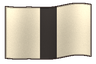
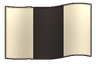
Add priority country flags and clarify two starting flags
Include the 21 high-priority and 17 medium-priority countries. Make the Japanese stripe wider and replace the Nguyen crescent with a dragon.

Changed region(s): [[0.5625, 0.0625, 0.6875, 0.9062], [0.3438, 0.0938, 0.4375, 0.9375]]

diff --git a/docs/flag-artwork.md b/docs/flag-artwork.md
@@ -1,13 +1,13 @@
 # 国旗アイコン
 
-開始国61件。PNGのファイル名は `world.json` の国名です。ゲーム中に追加される国など、同名の画像がない場合には `_unknown.png` が利用できます。
+開始国61件と、ゲーム中に現れる固定名の国を収録しています。PNGのファイル名にはゲーム内で使われる国名を用います。同名の画像がない場合に利用できる `_unknown.png` も収録しています。
 
-1783年の開始データ向けの固定素材です。史料ベースの旗も、紋章や配色を小さな表示向けに簡略化しています。「代用デザイン」には、王家の紋章から再構成したもの、後代の旗を用いたもの、ゲーム用の創作旗が含まれます。図形を描き起こして、共通の生地の陰影を適用しています。
+以下は1783年の開始データ向けの旗です。史料ベースの旗も、紋章や配色を小さな表示向けに簡略化しています。「代用デザイン」には、王家の紋章から再構成したもの、後代の旗を用いたもの、ゲーム用の創作旗が含まれます。図形を描き起こして、共通の生地の陰影を適用しています。
 
 | 国 | 根拠 | デザイン |
 | --- | --- | --- |
 | フランス | [史料ベース](https://commons.wikimedia.org/wiki/Historical_flags) | ブルボン朝の白地王旗と三つの百合紋を簡略化。 |
-| 日本 | [史料ベース](https://en.wikipedia.org/wiki/List_of_Japanese_flags) | 徳川幕府の白・黒・白の船旗。 |
+| 日本 | [史料ベース](https://en.wikipedia.org/wiki/List_of_Japanese_flags) | 徳川幕府の白・黒・白の船旗を基に、縮小表示で判別できるよう中央の黒帯を太く調整。 |
 | イギリス | [史料ベース](https://commons.wikimedia.org/wiki/Timeline_of_national_flags) | 1801年以前のユニオン旗。 |
 | アメリカ | [史料ベース](https://www.si.edu/spotlight/flag-day/flag-facts) | 13本の縞と13星。星の並びは当時の複数の型から円形を採用。 |
 | ロシア | [史料ベース](https://commons.wikimedia.org/wiki/Timeline_of_national_flags) | 白・青・赤の商船旗。 |
@@ -55,7 +55,7 @@
 | ザクセン | [代用デザイン](https://commons.wikimedia.org/wiki/Flags_of_territories_of_the_Holy_Roman_Empire) | 黒金の横縞と緑の冠状斜帯を用いた選帝侯家の紋章旗。 |
 | ハノーファー | [代用デザイン](https://www.crwflags.com/fotw/flags/de-ha_kd.html) | 白馬の紋章を赤地に配置した識別旗。 |
 | ヴュルテンベルク | [代用デザイン](https://commons.wikimedia.org/wiki/Flags_of_territories_of_the_Holy_Roman_Empire) | 三本の鹿角を用いたヴュルテンベルク家の紋章旗。 |
-| 阮氏 | [代用デザイン](https://commons.wikimedia.org/wiki/Category:Fictional_flags_of_Vietnam) | 黄金の地に月と赤い円を置いたゲーム用デザイン。 |
+| 阮氏 | [代用デザイン](https://commons.wikimedia.org/wiki/Category:Fictional_flags_of_Vietnam) | 赤地に金の龍と宝珠を配したゲーム用デザイン。 |
 | ラヘジ | [代用デザイン](https://www.crwflags.com/fotw/Flags/ye_lahej.html) | 赤白と交差する短剣・槍の旗を参考。採用年は未確認。 |
 | デリー | [代用デザイン](https://en.wikipedia.org/wiki/List_of_office-holders_in_India) | ムガル朝の緑地の軍旗と獅子・太陽を用いた識別旗。 |
 | アワド | 代用デザイン | 王侯家の双魚の紋章を旗にした代用。 |
@@ -67,3 +67,57 @@
 | オヨ帝国 | 代用デザイン | オヨの騎兵を参考にした、馬のシルエットを持つゲーム用デザイン。 |
 | ボルヌ帝国 | 代用デザイン | 群青地と金の幾何学文様を組み合わせたゲーム用デザイン。 |
 | ハワイ王国 | [代用デザイン](https://digitalarchives-documents.hawaii.gov/documents/1640/32.pdf) | カメハメハ1世期に成立した旗を代用。王国の成立・旗の採用とも開始年より後。 |
+
+## ゲーム中に現れる国
+
+専用の旗を用意する対象は、優先度「高」の21件と「中」の17件です。旗は `PriceOfBread.App/Assets/Flags` に国名と同じファイル名で収録しています。
+
+旗を表示するUIでは、`Power.Name` と同名の素材を参照し、一致しない場合は `_unknown.png` を使用します。低優先の固定名、内戦の反乱勢力、都市名に由来する自動命名の国にも、共通の `_unknown.png` を使用する想定です。政体に応じて変わる画面表示名は、ファイル名の検索に用いません。
+
+### 優先度 高（21件）
+
+| 国 | 出現経路 | 基準 | デザイン |
+| --- | --- | --- | --- |
+| ドイツ | 統一 | [史料を基に簡略化](https://commons.wikimedia.org/wiki/Timeline_of_national_flags) | 黒・白・赤の帝国旗。 |
+| 北ドイツ連邦 | 統一 | [史料を基に簡略化](https://commons.wikimedia.org/wiki/Timeline_of_national_flags) | 連邦の黒・白・赤。ドイツとは意匠を共用。 |
+| イタリア | 統一 | [史料を基に簡略化](https://commons.wikimedia.org/wiki/Timeline_of_national_flags) | 緑白赤にサヴォイアの盾。 |
+| ローマ | 統一 | ゲーム用図案 | 金鷲を中央に置いた復興ローマの旗。 |
+| 神聖ローマ | 統一 | [代用デザイン](https://commons.wikimedia.org/wiki/Flags_of_territories_of_the_Holy_Roman_Empire) | 帝国の双頭の黒鷲。ゲーム内の再統一を表す。 |
+| フランス帝国 | 統一 | [史料を基に簡略化](https://commons.wikimedia.org/wiki/Gallery_of_historic_flags) | フランス第一帝政期の青・白・赤。 |
+| 大英帝国 | 統一 | [史料を基に簡略化](https://commons.wikimedia.org/wiki/Timeline_of_national_flags) | 1801年以降のユニオン旗。 |
+| ポーランド＝リトアニア | 統一 | [代用デザイン](https://commons.wikimedia.org/wiki/Gallery_of_historic_flags) | 白鷲と騎馬紋を組み合わせた再統一旗。 |
+| スカンジナビア | 統一 | [代用デザイン](https://commons.wikimedia.org/wiki/Gallery_of_historic_flags) | 統一国の代用旗。カルマル同盟の赤・黄を配色の手がかりに、順序を変更。 |
+| イベリア | 統一 | ゲーム用図案 | スペインとポルトガルの識別色を合わせた統一旗。 |
+| 大ネーデルラント | 統一 | ゲーム用図案 | 旧オランダの橙白青と金色の獣章を組み合わせた旗。 |
+| ユーゴスラビア | 統一 | [史料を基に簡略化](https://commons.wikimedia.org/wiki/Timeline_of_national_flags) | 王国期の青・白・赤。 |
+| ギリシャ | 統一・分離独立 | [史料を基に簡略化](https://commons.wikimedia.org/wiki/Timeline_of_national_flags) | 青白の縞と左上の白十字を持つ海上旗。 |
+| ハンガリー | 統一・分離独立 | [史料を基に簡略化](https://commons.wikimedia.org/wiki/Timeline_of_national_flags) | 赤・白・緑の三色。 |
+| チェコスロバキア | 統一 | [史料を基に簡略化](https://commons.wikimedia.org/wiki/Timeline_of_national_flags) | 白赤の横二色と青い三角。 |
+| バーラト | 統一 | ゲーム用図案 | 橙・白・緑と輪を用いた統一旗。 |
+| ムガル帝国 | 統一 | [代用デザイン](https://en.wikipedia.org/wiki/List_of_office-holders_in_India) | 緑地と獅子・太陽を基にした復興旗。 |
+| 大日本 | 統一 | ゲーム用図案 | 日輪を大きく簡略化した統一旗。 |
+| 中華 | 統一・文化圏 | [ゲーム用図案](https://commons.wikimedia.org/wiki/Timeline_of_national_flags) | 五色旗の配色を用いたゲーム内国家の識別旗。 |
+| 統一朝鮮 | 統一 | [代用デザイン](https://smarthistory.org/korean-national-flag) | 後代の太極旗に見られる太極を用いた統一旗。 |
+| 満洲国 | 統一・分離独立 | [史料を基に簡略化](https://commons.wikimedia.org/wiki/Gallery_of_historic_flags) | 黄地の左上に赤・青・白・黒の四色。 |
+
+### 優先度 中（17件）
+
+| 国 | 出現経路 | 基準 | デザイン |
+| --- | --- | --- | --- |
+| アイルランド | 分離独立 | [代用デザイン](https://commons.wikimedia.org/wiki/Gallery_of_historic_flags) | 緑地に金のアイルランド竪琴。 |
+| スコットランド | 分離独立 | [史料を基に簡略化](https://commons.wikimedia.org/wiki/Timeline_of_national_flags) | 青地に白の聖アンデレ十字。 |
+| ベルギー | 分離独立 | [史料を基に簡略化](https://commons.wikimedia.org/wiki/Timeline_of_national_flags) | 黒・黄・赤の縦三色。 |
+| セルビア | 分離独立 | [史料を基に簡略化](https://commons.wikimedia.org/wiki/Timeline_of_national_flags) | 赤・青・白の横三色。 |
+| ブルガリア | 分離独立 | [史料を基に簡略化](https://commons.wikimedia.org/wiki/Timeline_of_national_flags) | 白・緑・赤の横三色。 |
+| ルーマニア | 分離独立 | [史料を基に簡略化](https://commons.wikimedia.org/wiki/Timeline_of_national_flags) | 青・黄・赤の縦三色。 |
+| エジプト | 分離独立 | [代用デザイン](https://commons.wikimedia.org/wiki/Gallery_of_historic_flags) | 赤地に三日月と星を三組配置した王朝旗の簡略図案。 |
+| ウクライナ | 分離独立 | [史料を基に簡略化](https://commons.wikimedia.org/wiki/Timeline_of_national_flags) | 青・黄の横二色。 |
+| ラトビア | 分離独立 | [史料を基に簡略化](https://commons.wikimedia.org/wiki/Timeline_of_national_flags) | えんじの地に細い白帯。 |
+| リトアニア | 分離独立 | [史料を基に簡略化](https://commons.wikimedia.org/wiki/Timeline_of_national_flags) | 黄・緑・赤の横三色。 |
+| アメリカ連合国 | 分離独立 | [史料を基に簡略化](https://www.si.edu/object/first-confederate-national-flag%3Anmah_461713) | 連合国最初期の国旗 Stars and Bars の赤白赤と星の環。 |
+| カタルーニャ | 分離独立 | [史料を基に簡略化](https://commons.wikimedia.org/wiki/Gallery_of_historic_flags) | 黄地に赤い横帯を四本配置するセニェーラの簡略図案。 |
+| ノルウェー | 分離独立 | [史料を基に簡略化](https://commons.wikimedia.org/wiki/Timeline_of_national_flags) | 赤地に白で縁取った青の北欧十字。 |
+| フィンランド | 分離独立 | [史料を基に簡略化](https://commons.wikimedia.org/wiki/Timeline_of_national_flags) | 白地に青の北欧十字。 |
+| 台湾 | 分離独立 | [代用デザイン](https://commons.wikimedia.org/wiki/Gallery_of_historic_flags) | 台湾民主国の青地と黄虎を手がかりにした代用旗。 |
+| チベット | 分離独立 | [代用デザイン](https://commons.wikimedia.org/wiki/Gallery_of_historic_flags) | 放射状の赤青と雪山を用いた雪獅子旗の簡略図案。 |
+| モンゴル | 分離独立 | [代用デザイン](https://www.crwflags.net/FOTW/flags/mn.html) | 独立期の旗に見られるソヨンボを簡略化。 |
